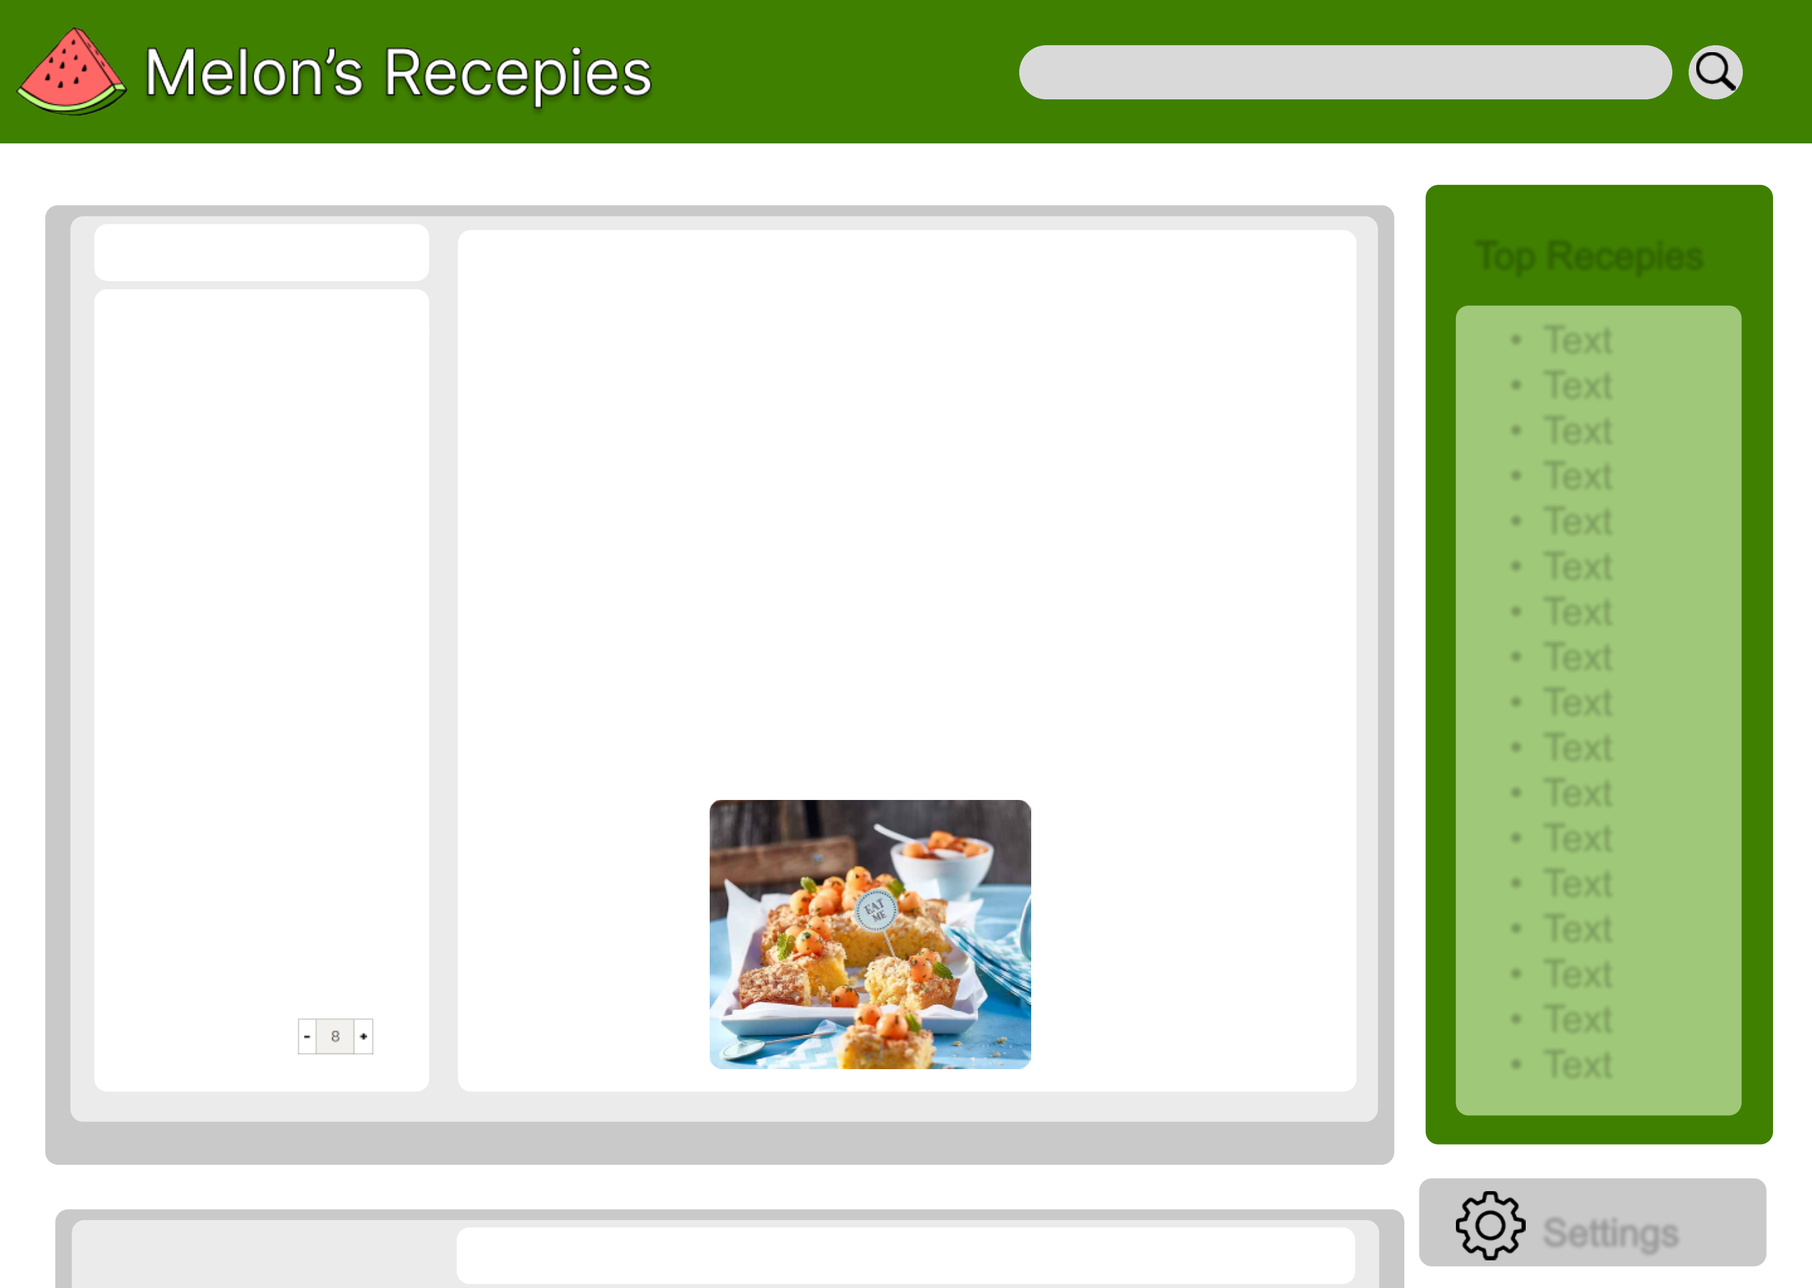
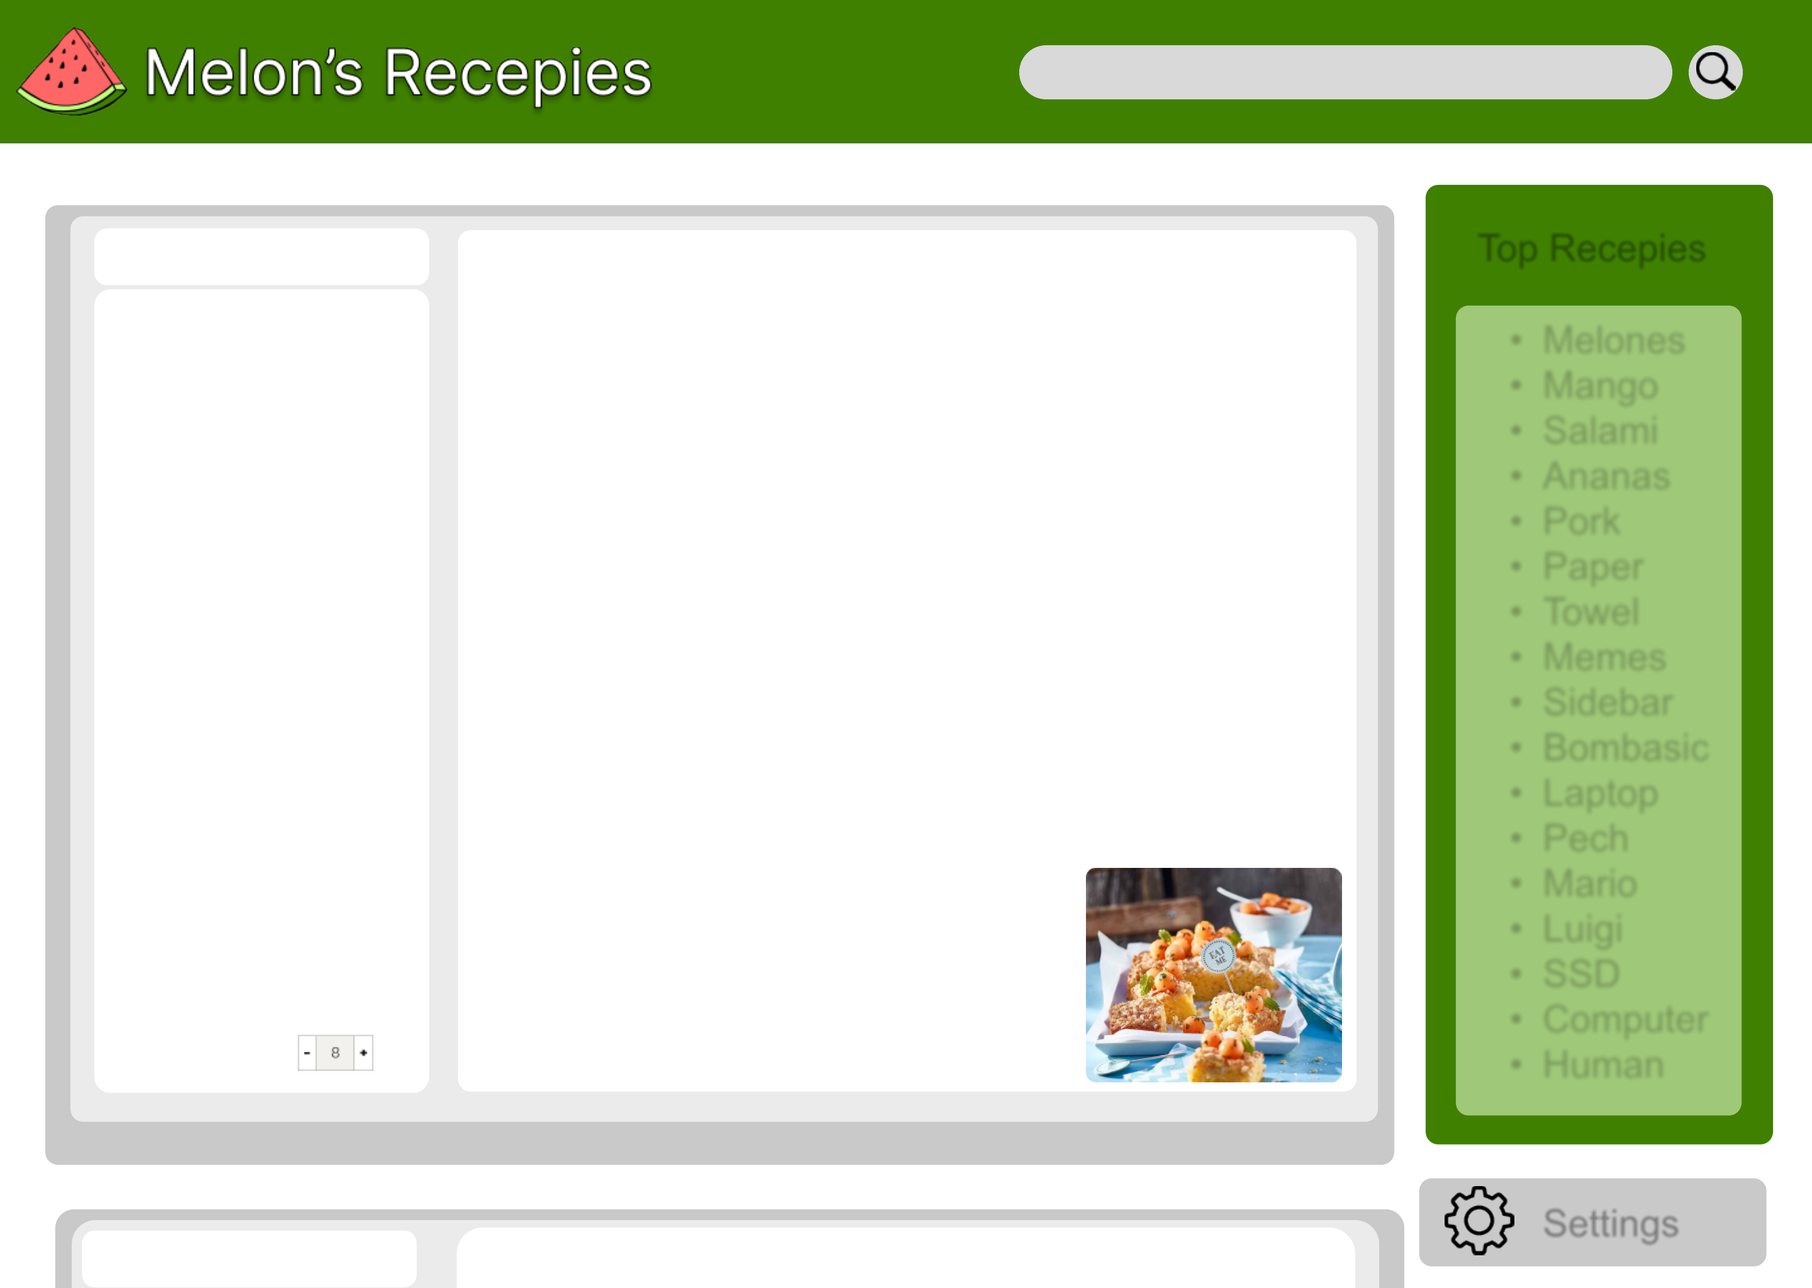
web

diff --git a/docs/index.html b/docs/index.html
@@ -23,7 +23,7 @@ theViewer.defaultViewer = new theViewer.Viewer({});
 </div>
 </div>
 <div id="page-container">
-<div id="pf1" class="pf w0 h0" data-page-no="1"><div class="pc pc1 w0 h0"><img class="bi x0 y0 w0 h1" alt="" src="bg1.png"/><div class="t m0 x1 h2 y1 ff1 fs0 fc0 sc0 ls0 ws0">Text here: </div><div class="t m0 x2 h3 y2 ff1 fs1 fc1 sc1 ls0 ws0">Top Recepies</div><div class="t m0 x3 h4 y3 ff1 fs2 fc1 sc0 ls0 ws0">•<span class="_ _0"> </span><span class="fs1">Text</span></div><div class="t m0 x3 h4 y4 ff1 fs2 fc1 sc0 ls0 ws0">•<span class="_ _0"> </span><span class="fs1">Text</span></div><div class="t m0 x3 h4 y5 ff1 fs2 fc1 sc0 ls0 ws0">•<span class="_ _0"> </span><span class="fs1">Text</span></div><div class="t m0 x3 h4 y6 ff1 fs2 fc1 sc0 ls0 ws0">•<span class="_ _0"> </span><span class="fs1">Text</span></div><div class="t m0 x3 h4 y7 ff1 fs2 fc1 sc0 ls0 ws0">•<span class="_ _0"> </span><span class="fs1">Text</span></div><div class="t m0 x3 h4 y8 ff1 fs2 fc1 sc0 ls0 ws0">•<span class="_ _0"> </span><span class="fs1">Text</span></div><div class="t m0 x3 h4 y9 ff1 fs2 fc1 sc0 ls0 ws0">•<span class="_ _0"> </span><span class="fs1">Text</span></div><div class="t m0 x3 h4 ya ff1 fs2 fc1 sc0 ls0 ws0">•<span class="_ _0"> </span><span class="fs1">Text</span></div><div class="t m0 x3 h4 yb ff1 fs2 fc1 sc0 ls0 ws0">•<span class="_ _0"> </span><span class="fs1">Text</span></div><div class="t m0 x3 h4 yc ff1 fs2 fc1 sc0 ls0 ws0">•<span class="_ _0"> </span><span class="fs1">Text</span></div><div class="t m0 x3 h4 yd ff1 fs2 fc1 sc0 ls0 ws0">•<span class="_ _0"> </span><span class="fs1">Text</span></div><div class="t m0 x3 h4 ye ff1 fs2 fc1 sc0 ls0 ws0">•<span class="_ _0"> </span><span class="fs1">Text</span></div><div class="t m0 x3 h4 yf ff1 fs2 fc1 sc0 ls0 ws0">•<span class="_ _0"> </span><span class="fs1">Text</span></div><div class="t m0 x3 h4 y10 ff1 fs2 fc1 sc0 ls0 ws0">•<span class="_ _0"> </span><span class="fs1">Text</span></div><div class="t m0 x3 h4 y11 ff1 fs2 fc1 sc0 ls0 ws0">•<span class="_ _0"> </span><span class="fs1">Text</span></div><div class="t m0 x3 h4 y12 ff1 fs2 fc1 sc0 ls0 ws0">•<span class="_ _0"> </span><span class="fs1">Text</span></div><div class="t m0 x3 h4 y13 ff1 fs2 fc1 sc0 ls0 ws0">•<span class="_ _0"> </span><span class="fs1">Text</span></div><div class="t m0 x4 h3 y14 ff1 fs1 fc0 sc2 ls0 ws0">Settings</div><div class="t m0 x5 h3 y15 ff1 fs1 fc0 sc0 ls0 ws0">Anleitung:</div><div class="t m0 x6 h5 y16 ff1 fs3 fc0 sc0 ls0 ws0">2<span class="_ _1"> </span>Melonen (z. B. Charentais), halbiert, </div><div class="t m0 x6 h5 y17 ff1 fs3 fc0 sc0 ls0 ws0">entkernt</div><div class="t m0 x6 h5 y18 ff1 fs3 fc0 sc0 ls0 ws0">2 EL<span class="_ _2"> </span>Puderzucker</div><div class="t m0 x6 h5 y19 ff1 fs3 fc0 sc0 ls0 ws0">1 EL<span class="_ _2"> </span>Limettensaft</div><div class="t m0 x6 h5 y1a ff1 fs3 fc0 sc0 ls0 ws0">1 EL<span class="_ _2"> </span>Zitronenmelisse, fein geschnitten</div><div class="t m0 x6 h5 y1b ff1 fs3 fc0 sc0 ls0 ws0">150 g<span class="_ _3"> </span>Butter, weich</div><div class="t m0 x6 h5 y1c ff1 fs3 fc0 sc0 ls0 ws0">150 g<span class="_ _3"> </span>Zucker</div><div class="t m0 x6 h5 y1d ff1 fs3 fc0 sc0 ls0 ws0">1 Prise<span class="_ _4"> </span>Salz</div><div class="t m0 x6 h5 y1e ff1 fs3 fc0 sc0 ls0 ws0">3<span class="_ _1"> </span>Eier</div><div class="t m0 x6 h5 y1f ff1 fs3 fc0 sc0 ls0 ws0">250 g<span class="_ _3"> </span>Mehl</div><div class="t m0 x6 h5 y20 ff1 fs3 fc0 sc0 ls0 ws0">1 TL<span class="_ _5"> </span>Backpulver</div><div class="t m0 x6 h5 y21 ff1 fs3 fc0 sc0 ls0 ws0">1 TL<span class="_ _5"> </span>Anis</div><div class="t m0 x6 h5 y22 ff1 fs3 fc0 sc0 ls0 ws0">100 g<span class="_ _3"> </span>Mandelstifte</div><div class="t m0 x6 h5 y23 ff1 fs3 fc0 sc0 ls0 ws0">100 g<span class="_ _3"> </span>Zucker</div><div class="t m0 x6 h5 y24 ff1 fs3 fc0 sc0 ls0 ws0">50 g<span class="_ _6"> </span>Butter</div><div class="t m0 x7 h2 y25 ff1 fs0 fc0 sc0 ls0 ws0">Anz. Pers:</div><div class="t m0 x8 h3 y15 ff1 fs1 fc0 sc0 ls0 ws0">Melonen Kuchen</div><div class="t m0 x5 h2 y26 ff1 fs0 fc0 sc0 ls0 ws0">Von den Melonen so viele Kugeln ausstechen wie möglich, Fruchtfleisch </div><div class="t m0 x5 h2 y27 ff1 fs0 fc0 sc0 ls0 ws0">herauslösen, pürieren (ergibt ca. 1.5 dl). Melonenkugeln mit Puderzucker, </div><div class="t m0 x5 h2 y28 ff1 fs0 fc0 sc0 ls0 ws0">Limettensaft und Zitronenmelisse mischen, zugedeckt kühl stellen.</div><div class="t m0 x5 h2 y29 ff1 fs0 fc0 sc0 ls0 ws0">Butter in eine Schüssel geben, Zucker und Salz darunterrühren. Ein Ei nach </div><div class="t m0 x5 h2 y2a ff1 fs0 fc0 sc0 ls0 ws0">dem andern darunterrühren, weiterrühren, bis die Masse heller ist. 1.5 dl </div><div class="t m0 x5 h2 y2b ff1 fs0 fc0 sc0 ls0 ws0">Melonenpüree darunterühren.</div><div class="t m0 x5 h2 y2c ff1 fs0 fc0 sc0 ls0 ws0">Mehl, Backpulver und Anis mischen, unter die Masse mischen. Teig in der </div><div class="t m0 x5 h2 y2d ff1 fs0 fc0 sc0 ls0 ws0">vorbereiteten Form verteilen.</div><div class="t m0 x5 h2 y2e ff1 fs0 fc0 sc0 ls0 ws0">Mandeln, Zucker und Butter in einer Pfanne unter Rühren warm werden </div><div class="t m0 x5 h2 y2f ff1 fs0 fc0 sc0 ls0 ws0">lassen, bis die Butter geschmolzen ist, auf dem Teig verteilen.</div><div class="t m0 x5 h2 y30 ff1 fs0 fc0 sc0 ls0 ws0">Backen: ca. 25 Min. in der Mitte des auf 180 Grad vorgeheizten Ofens. </div><div class="t m0 x5 h2 y31 ff1 fs0 fc0 sc0 ls0 ws0">Herausnehmen, in der Form auf einem Gitter auskühlen. Melonenkugeln </div><div class="t m0 x5 h2 y32 ff1 fs0 fc0 sc0 ls0 ws0">darauf verteilen oder dazu servieren.</div><div class="t m0 x9 h3 y33 ff1 fs1 fc0 sc0 ls0 ws0">Random Kuchen</div><div class="t m0 x5 h3 y34 ff1 fs1 fc0 sc0 ls0 ws0">Anleitung:</div><div class="t m0 x8 h3 y15 ff1 fs1 fc0 sc0 ls0 ws0">Melonen Kuchen</div><div class="t m0 xa h3 y35 ff1 fs1 fc0 sc0 ls0 ws0">Zeit: 10 min</div></div><div class="pi" data-data='{"ctm":[1.000000,0.000000,0.000000,1.000000,0.000000,0.000000]}'></div></div>
+<div id="pf1" class="pf w0 h0" data-page-no="1"><div class="pc pc1 w0 h0"><img class="bi x0 y0 w0 h1" alt="" src="bg1.png"/><div class="t m0 x1 h2 y1 ff1 fs0 fc0 sc0 ls0 ws0">Text here: </div><div class="t m0 x2 h3 y2 ff1 fs1 fc0 sc0 ls0 ws0">Top Recepies</div><div class="t m0 x3 h4 y3 ff1 fs2 fc1 sc0 ls0 ws0">•<span class="_ _0"> </span><span class="fs1">Melones</span></div><div class="t m0 x3 h4 y4 ff1 fs2 fc1 sc0 ls0 ws0">•<span class="_ _0"> </span><span class="fs1">Mango</span></div><div class="t m0 x3 h4 y5 ff1 fs2 fc1 sc0 ls0 ws0">•<span class="_ _0"> </span><span class="fs1">Salami</span></div><div class="t m0 x3 h4 y6 ff1 fs2 fc1 sc0 ls0 ws0">•<span class="_ _0"> </span><span class="fs1">Ananas</span></div><div class="t m0 x3 h4 y7 ff1 fs2 fc1 sc0 ls0 ws0">•<span class="_ _0"> </span><span class="fs1">Pork</span></div><div class="t m0 x3 h4 y8 ff1 fs2 fc1 sc0 ls0 ws0">•<span class="_ _0"> </span><span class="fs1">Paper</span></div><div class="t m0 x3 h4 y9 ff1 fs2 fc1 sc0 ls0 ws0">•<span class="_ _0"> </span><span class="fs1">Towel</span></div><div class="t m0 x3 h4 ya ff1 fs2 fc1 sc0 ls0 ws0">•<span class="_ _0"> </span><span class="fs1">Memes</span></div><div class="t m0 x3 h4 yb ff1 fs2 fc1 sc0 ls0 ws0">•<span class="_ _0"> </span><span class="fs1">Sidebar</span></div><div class="t m0 x3 h4 yc ff1 fs2 fc1 sc0 ls0 ws0">•<span class="_ _0"> </span><span class="fs1">Bombasic</span></div><div class="t m0 x3 h4 yd ff1 fs2 fc1 sc0 ls0 ws0">•<span class="_ _0"> </span><span class="fs1">Laptop</span></div><div class="t m0 x3 h4 ye ff1 fs2 fc1 sc0 ls0 ws0">•<span class="_ _0"> </span><span class="fs1">Pech</span></div><div class="t m0 x3 h4 yf ff1 fs2 fc1 sc0 ls0 ws0">•<span class="_ _0"> </span><span class="fs1">Mario</span></div><div class="t m0 x3 h4 y10 ff1 fs2 fc1 sc0 ls0 ws0">•<span class="_ _0"> </span><span class="fs1">Luigi</span></div><div class="t m0 x3 h4 y11 ff1 fs2 fc1 sc0 ls0 ws0">•<span class="_ _0"> </span><span class="fs1">SSD</span></div><div class="t m0 x3 h4 y12 ff1 fs2 fc1 sc0 ls0 ws0">•<span class="_ _0"> </span><span class="fs1">Computer</span></div><div class="t m0 x3 h4 y13 ff1 fs2 fc1 sc0 ls0 ws0">•<span class="_ _0"> </span><span class="fs1">Human</span></div><div class="t m0 x4 h3 y14 ff1 fs1 fc0 sc0 ls0 ws0">Settings</div><div class="t m0 x5 h3 y15 ff1 fs1 fc0 sc0 ls0 ws0">Anleitung:</div><div class="t m0 x6 h5 y16 ff1 fs3 fc0 sc0 ls0 ws0">2<span class="_ _1"> </span>Melonen (z. B. </div><div class="t m0 x6 h5 y17 ff1 fs3 fc0 sc0 ls0 ws0">Charentais), halbiert, entkernt</div><div class="t m0 x6 h5 y18 ff1 fs3 fc0 sc0 ls0 ws0">2 EL<span class="_ _2"> </span>Puderzucker</div><div class="t m0 x6 h5 y19 ff1 fs3 fc0 sc0 ls0 ws0">1 EL<span class="_ _2"> </span>Limettensaft</div><div class="t m0 x6 h5 y1a ff1 fs3 fc0 sc0 ls0 ws0">1 EL<span class="_ _2"> </span>Zitronenmelisse, </div><div class="t m0 x6 h5 y1b ff1 fs3 fc0 sc0 ls0 ws0">fein geschnitten</div><div class="t m0 x6 h5 y1c ff1 fs3 fc0 sc0 ls0 ws0">150 g<span class="_ _3"> </span>Butter, weich</div><div class="t m0 x6 h5 y1d ff1 fs3 fc0 sc0 ls0 ws0">150 g<span class="_ _3"> </span>Zucker</div><div class="t m0 x6 h5 y1e ff1 fs3 fc0 sc0 ls0 ws0">1 Prise<span class="_ _4"> </span>Salz</div><div class="t m0 x6 h5 y1f ff1 fs3 fc0 sc0 ls0 ws0">3<span class="_ _1"> </span>Eier</div><div class="t m0 x6 h5 y20 ff1 fs3 fc0 sc0 ls0 ws0">250 g<span class="_ _3"> </span>Mehl</div><div class="t m0 x6 h5 y21 ff1 fs3 fc0 sc0 ls0 ws0">1 TL<span class="_ _5"> </span>Backpulver</div><div class="t m0 x6 h5 y22 ff1 fs3 fc0 sc0 ls0 ws0">1 TL<span class="_ _5"> </span>Anis</div><div class="t m0 x6 h5 y23 ff1 fs3 fc0 sc0 ls0 ws0">100 g<span class="_ _3"> </span>Mandelstifte</div><div class="t m0 x6 h5 y24 ff1 fs3 fc0 sc0 ls0 ws0">100 g<span class="_ _3"> </span>Zucker</div><div class="t m0 x6 h5 y25 ff1 fs3 fc0 sc0 ls0 ws0">50 g<span class="_ _6"> </span>Butter</div><div class="t m0 x6 h2 y26 ff1 fs0 fc0 sc0 ls0 ws0">Anz. Pers:</div><div class="t m0 x5 h2 y27 ff1 fs0 fc0 sc0 ls0 ws0">Von den Melonen so viele Kugeln ausstechen wie möglich, Fruchtfleisch </div><div class="t m0 x5 h2 y28 ff1 fs0 fc0 sc0 ls0 ws0">herauslösen, pürieren (ergibt ca. 1.5 dl). Melonenkugeln mit Puderzucker, </div><div class="t m0 x5 h2 y29 ff1 fs0 fc0 sc0 ls0 ws0">Limettensaft und Zitronenmelisse mischen, zugedeckt kühl stellen.</div><div class="t m0 x5 h2 y2a ff1 fs0 fc0 sc0 ls0 ws0">Butter in eine Schüssel geben, Zucker und Salz darunterrühren. Ein Ei nach </div><div class="t m0 x5 h2 y2b ff1 fs0 fc0 sc0 ls0 ws0">dem andern darunterrühren, weiterrühren, bis die Masse heller ist. 1.5 dl </div><div class="t m0 x5 h2 y2c ff1 fs0 fc0 sc0 ls0 ws0">Melonenpüree darunterühren.</div><div class="t m0 x5 h2 y2d ff1 fs0 fc0 sc0 ls0 ws0">Mehl, Backpulver und Anis mischen, unter die Masse mischen. Teig in der </div><div class="t m0 x5 h2 y2e ff1 fs0 fc0 sc0 ls0 ws0">vorbereiteten Form verteilen.</div><div class="t m0 x5 h2 y2f ff1 fs0 fc0 sc0 ls0 ws0">Mandeln, Zucker und Butter in einer Pfanne unter Rühren warm werden </div><div class="t m0 x5 h2 y30 ff1 fs0 fc0 sc0 ls0 ws0">lassen, bis die Butter geschmolzen ist, auf dem Teig verteilen.</div><div class="t m0 x5 h2 y31 ff1 fs0 fc0 sc0 ls0 ws0">Backen: ca. 25 Min. in der Mitte des auf 180 Grad vorgeheizten Ofens. </div><div class="t m0 x5 h2 y32 ff1 fs0 fc0 sc0 ls0 ws0">Herausnehmen, in der Form auf einem Gitter auskühlen. Melonenkugeln </div><div class="t m0 x5 h2 y33 ff1 fs0 fc0 sc0 ls0 ws0">darauf verteilen oder dazu servieren.</div><div class="t m0 x5 h3 y34 ff1 fs1 fc0 sc0 ls0 ws0">Anleitung:</div><div class="t m0 x7 h3 y35 ff1 fs1 fc0 sc0 ls0 ws0">Zeit: 10 min</div><div class="t m0 x8 h3 y36 ff1 fs1 fc0 sc0 ls0 ws0">Random Kuchen</div><div class="t m0 x9 h3 y15 ff1 fs1 fc0 sc0 ls0 ws0">Melonen Kuchen</div></div><div class="pi" data-data='{"ctm":[1.000000,0.000000,0.000000,1.000000,0.000000,0.000000]}'></div></div>
 </div>
 <div class="loading-indicator">
 

diff --git a/docs/main.css b/docs/main.css
@@ -4,84 +4,81 @@
 .v0{vertical-align:0.000000px;}
 .ls0{letter-spacing:0.000000px;}
 .sc_{text-shadow:none;}
-.sc2{text-shadow:-0.015em 0 rgb(255,255,255),0 0.015em rgb(255,255,255),0.015em 0 rgb(255,255,255),0 -0.015em  rgb(255,255,255);}
-.sc1{text-shadow:-0.015em 0 rgb(0,0,0),0 0.015em rgb(0,0,0),0.015em 0 rgb(0,0,0),0 -0.015em  rgb(0,0,0);}
 .sc0{text-shadow:-0.015em 0 transparent,0 0.015em transparent,0.015em 0 transparent,0 -0.015em  transparent;}
 @media screen and (-webkit-min-device-pixel-ratio:0){
 .sc_{-webkit-text-stroke:0px transparent;}
-.sc2{-webkit-text-stroke:0.015em rgb(255,255,255);text-shadow:none;}
-.sc1{-webkit-text-stroke:0.015em rgb(0,0,0);text-shadow:none;}
 .sc0{-webkit-text-stroke:0.015em transparent;text-shadow:none;}
 }
 .ws0{word-spacing:0.000000px;}
 ._0{width:65.300000px;}
-._4{width:163.600000px;}
-._3{width:187.960000px;}
-._2{width:205.800000px;}
-._5{width:208.040000px;}
-._6{width:210.200000px;}
-._1{width:265.760000px;}
+._4{width:101.400000px;}
+._3{width:137.940000px;}
+._2{width:164.700000px;}
+._5{width:168.060000px;}
+._6{width:171.300000px;}
+._1{width:254.640000px;}
 .fc1{color:rgb(255,255,255);}
 .fc0{color:rgb(0,0,0);}
-.fs3{font-size:40.000000px;}
+.fs3{font-size:60.000000px;}
 .fs0{font-size:80.000000px;}
 .fs1{font-size:120.000000px;}
 .fs2{font-size:122.000000px;}
 .y0{bottom:0.000000px;}
-.y33{bottom:13.526974px;}
+.y36{bottom:13.526974px;}
 .y34{bottom:13.857052px;}
-.y14{bottom:37.853268px;}
+.y14{bottom:41.852718px;}
 .y13{bottom:171.742310px;}
-.y25{bottom:192.554340px;}
+.y26{bottom:180.411274px;}
 .y12{bottom:207.742310px;}
+.y25{bottom:231.479980px;}
 .y11{bottom:243.742310px;}
+.y24{bottom:267.479980px;}
 .y10{bottom:279.742310px;}
+.y23{bottom:303.479980px;}
 .yf{bottom:315.742310px;}
-.y32{bottom:342.463409px;}
+.y22{bottom:339.479980px;}
+.y33{bottom:342.463409px;}
 .ye{bottom:351.742310px;}
-.y31{bottom:366.463409px;}
+.y32{bottom:366.463409px;}
+.y21{bottom:375.479980px;}
 .yd{bottom:387.742310px;}
-.y24{bottom:390.265839px;}
-.y30{bottom:390.463409px;}
-.y23{bottom:414.265839px;}
+.y31{bottom:390.463409px;}
+.y20{bottom:411.479980px;}
 .yc{bottom:423.742310px;}
-.y22{bottom:438.265839px;}
+.y1f{bottom:447.479980px;}
 .yb{bottom:459.742310px;}
-.y21{bottom:462.265839px;}
-.y20{bottom:486.265854px;}
-.y2f{bottom:486.463409px;}
+.y1e{bottom:483.479980px;}
+.y30{bottom:486.463409px;}
 .ya{bottom:495.742310px;}
-.y1f{bottom:510.265854px;}
-.y2e{bottom:510.463409px;}
+.y2f{bottom:510.463409px;}
+.y1d{bottom:519.479980px;}
 .y9{bottom:531.742310px;}
-.y1e{bottom:534.265854px;}
-.y1d{bottom:558.265854px;}
-.y2d{bottom:558.463394px;}
+.y1c{bottom:555.479980px;}
+.y2e{bottom:558.463394px;}
 .y8{bottom:567.742310px;}
-.y1c{bottom:582.265854px;}
-.y2c{bottom:582.463394px;}
+.y2d{bottom:582.463394px;}
+.y1b{bottom:591.378448px;}
 .y7{bottom:603.742310px;}
-.y1b{bottom:606.265854px;}
-.y1a{bottom:630.265854px;}
-.y2b{bottom:630.463394px;}
+.y1a{bottom:609.479980px;}
+.y2c{bottom:630.463394px;}
 .y6{bottom:639.742310px;}
-.y19{bottom:654.265854px;}
-.y2a{bottom:654.463394px;}
+.y19{bottom:645.479980px;}
+.y2b{bottom:654.463394px;}
 .y5{bottom:675.742310px;}
-.y18{bottom:678.265854px;}
-.y29{bottom:678.463394px;}
-.y17{bottom:702.198160px;}
+.y2a{bottom:678.463394px;}
+.y18{bottom:681.479980px;}
 .y4{bottom:711.742310px;}
-.y16{bottom:714.265852px;}
-.y28{bottom:726.463394px;}
-.y35{bottom:737.577267px;}
+.y17{bottom:717.378448px;}
+.y29{bottom:726.463394px;}
+.y16{bottom:735.479984px;}
 .y3{bottom:747.742306px;}
-.y27{bottom:750.463398px;}
-.y26{bottom:774.463398px;}
+.y28{bottom:750.463398px;}
+.y35{bottom:761.012157px;}
+.y27{bottom:774.463398px;}
 .y15{bottom:806.733105px;}
-.y2{bottom:814.731838px;}
+.y2{bottom:817.318844px;}
 .y1{bottom:959.434517px;}
-.h5{height:29.140625px;}
+.h5{height:43.710938px;}
 .h2{height:58.281250px;}
 .h3{height:87.421875px;}
 .h4{height:88.878906px;}
@@ -89,86 +86,86 @@
 .h1{height:1024.000000px;}
 .w0{width:1440.000000px;}
 .x0{left:0.000000px;}
-.x8{left:84.000000px;}
-.x9{left:87.000000px;}
-.x6{left:97.333313px;}
-.xa{left:99.921661px;}
-.x7{left:108.000000px;}
+.x9{left:84.000000px;}
+.x8{left:87.000000px;}
+.x6{left:98.851494px;}
+.x7{left:125.602509px;}
 .x5{left:373.000000px;}
 .x1{left:829.000000px;}
-.x2{left:1172.000000px;}
+.x2{left:1173.688721px;}
 .x3{left:1199.000000px;}
-.x4{left:1226.000000px;}
+.x4{left:1225.325317px;}
 @media print{
 .v0{vertical-align:0.000000pt;}
 .ls0{letter-spacing:0.000000pt;}
 .ws0{word-spacing:0.000000pt;}
 ._0{width:87.066667pt;}
-._4{width:218.133333pt;}
-._3{width:250.613333pt;}
-._2{width:274.400000pt;}
-._5{width:277.386667pt;}
-._6{width:280.266667pt;}
-._1{width:354.346667pt;}
-.fs3{font-size:53.333333pt;}
+._4{width:135.200000pt;}
+._3{width:183.920000pt;}
+._2{width:219.600000pt;}
+._5{width:224.080000pt;}
+._6{width:228.400000pt;}
+._1{width:339.520000pt;}
+.fs3{font-size:80.000000pt;}
 .fs0{font-size:106.666667pt;}
 .fs1{font-size:160.000000pt;}
 .fs2{font-size:162.666667pt;}
 .y0{bottom:0.000000pt;}
-.y33{bottom:18.035965pt;}
+.y36{bottom:18.035965pt;}
 .y34{bottom:18.476069pt;}
-.y14{bottom:50.471024pt;}
+.y14{bottom:55.803624pt;}
 .y13{bottom:228.989746pt;}
-.y25{bottom:256.739120pt;}
+.y26{bottom:240.548365pt;}
 .y12{bottom:276.989746pt;}
+.y25{bottom:308.639974pt;}
 .y11{bottom:324.989746pt;}
+.y24{bottom:356.639974pt;}
 .y10{bottom:372.989746pt;}
+.y23{bottom:404.639974pt;}
 .yf{bottom:420.989746pt;}
-.y32{bottom:456.617879pt;}
+.y22{bottom:452.639974pt;}
+.y33{bottom:456.617879pt;}
 .ye{bottom:468.989746pt;}
-.y31{bottom:488.617879pt;}
+.y32{bottom:488.617879pt;}
+.y21{bottom:500.639974pt;}
 .yd{bottom:516.989746pt;}
-.y24{bottom:520.354451pt;}
-.y30{bottom:520.617879pt;}
-.y23{bottom:552.354451pt;}
+.y31{bottom:520.617879pt;}
+.y20{bottom:548.639974pt;}
 .yc{bottom:564.989746pt;}
-.y22{bottom:584.354451pt;}
+.y1f{bottom:596.639974pt;}
 .yb{bottom:612.989746pt;}
-.y21{bottom:616.354451pt;}
-.y20{bottom:648.354472pt;}
-.y2f{bottom:648.617879pt;}
+.y1e{bottom:644.639974pt;}
+.y30{bottom:648.617879pt;}
 .ya{bottom:660.989746pt;}
-.y1f{bottom:680.354472pt;}
-.y2e{bottom:680.617879pt;}
+.y2f{bottom:680.617879pt;}
+.y1d{bottom:692.639974pt;}
 .y9{bottom:708.989746pt;}
-.y1e{bottom:712.354472pt;}
-.y1d{bottom:744.354472pt;}
-.y2d{bottom:744.617859pt;}
+.y1c{bottom:740.639974pt;}
+.y2e{bottom:744.617859pt;}
 .y8{bottom:756.989746pt;}
-.y1c{bottom:776.354472pt;}
-.y2c{bottom:776.617859pt;}
+.y2d{bottom:776.617859pt;}
+.y1b{bottom:788.504598pt;}
 .y7{bottom:804.989746pt;}
-.y1b{bottom:808.354472pt;}
-.y1a{bottom:840.354472pt;}
-.y2b{bottom:840.617859pt;}
+.y1a{bottom:812.639974pt;}
+.y2c{bottom:840.617859pt;}
 .y6{bottom:852.989746pt;}
-.y19{bottom:872.354472pt;}
-.y2a{bottom:872.617859pt;}
+.y19{bottom:860.639974pt;}
+.y2b{bottom:872.617859pt;}
 .y5{bottom:900.989746pt;}
-.y18{bottom:904.354472pt;}
-.y29{bottom:904.617859pt;}
-.y17{bottom:936.264214pt;}
+.y2a{bottom:904.617859pt;}
+.y18{bottom:908.639974pt;}
 .y4{bottom:948.989746pt;}
-.y16{bottom:952.354469pt;}
-.y28{bottom:968.617859pt;}
-.y35{bottom:983.436356pt;}
+.y17{bottom:956.504598pt;}
+.y29{bottom:968.617859pt;}
+.y16{bottom:980.639979pt;}
 .y3{bottom:996.989741pt;}
-.y27{bottom:1000.617864pt;}
-.y26{bottom:1032.617864pt;}
+.y28{bottom:1000.617864pt;}
+.y35{bottom:1014.682877pt;}
+.y27{bottom:1032.617864pt;}
 .y15{bottom:1075.644140pt;}
-.y2{bottom:1086.309118pt;}
+.y2{bottom:1089.758458pt;}
 .y1{bottom:1279.246023pt;}
-.h5{height:38.854167pt;}
+.h5{height:58.281250pt;}
 .h2{height:77.708333pt;}
 .h3{height:116.562500pt;}
 .h4{height:118.505208pt;}
@@ -176,14 +173,13 @@
 .h1{height:1365.333333pt;}
 .w0{width:1920.000000pt;}
 .x0{left:0.000000pt;}
-.x8{left:112.000000pt;}
-.x9{left:116.000000pt;}
-.x6{left:129.777751pt;}
-.xa{left:133.228882pt;}
-.x7{left:144.000000pt;}
+.x9{left:112.000000pt;}
+.x8{left:116.000000pt;}
+.x6{left:131.801992pt;}
+.x7{left:167.470011pt;}
 .x5{left:497.333333pt;}
 .x1{left:1105.333333pt;}
-.x2{left:1562.666667pt;}
+.x2{left:1564.918294pt;}
 .x3{left:1598.666667pt;}
-.x4{left:1634.666667pt;}
+.x4{left:1633.767090pt;}
 }
